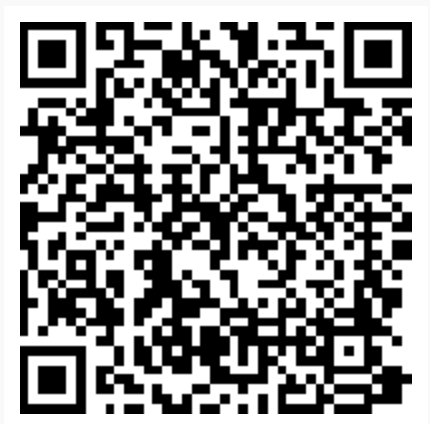
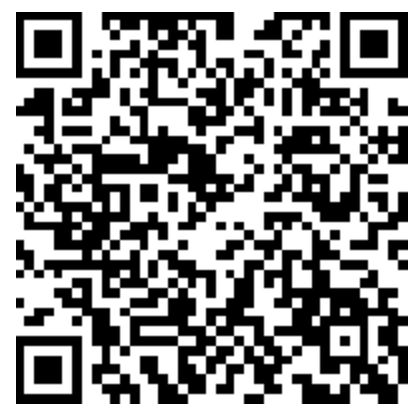
update bc address

diff --git a/src/pages/About.js b/src/pages/About.js
@@ -70,7 +70,7 @@ class AboutPage extends PureComponent {
           <Col md={12}>
             <p className={css(styles.coinName)}><strong>Bitcoin</strong></p>
             <p><img className={css(styles.qr)} alt="Bitcoin code" src={require('../images/bitcoin.png')} /></p>
-            <p className={css(styles.address)}>1Kw9yQLgJuz76sdXtQnVeEV1dBwForzNbM</p>
+            <p className={css(styles.address)}>1NNdEmBgnYzFoyV6517QUr8xkWCTsRgYfS</p>
           </Col>
 
           <Col md={12}>
